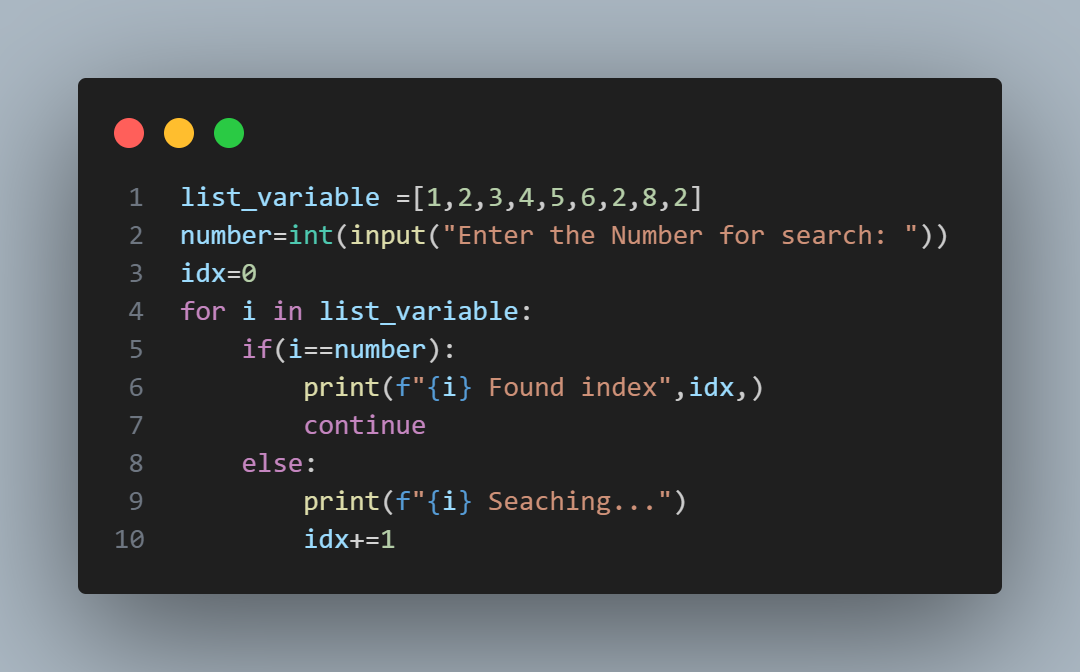
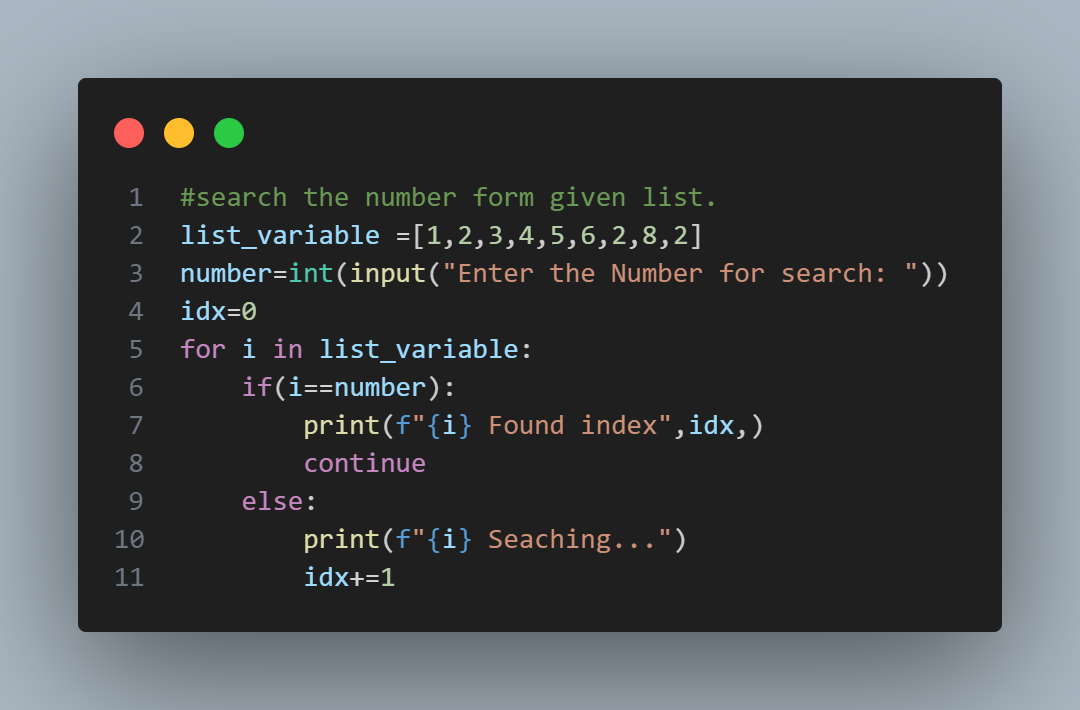
update

diff --git a/25-for-loop-practise1.py b/25-for-loop-practise1.py
@@ -5,7 +5,13 @@ for i in range(18, -1, -1):#reverse string
 
 
 #pattern print
-for i in range (6,1,-1):
+# *****         
+# **** 
+# *** 
+# **
+# *
+ 
+for i in range (6,0,-1):
     for j in range (i):
         print("*",end='')
     print(" ")

diff --git a/26-for-loop-practise2.py b/26-for-loop-practise2.py
@@ -1,3 +1,4 @@
+#search the number form given list.
 list_variable =[1,2,3,4,5,6,2,8,2]
 number=int(input("Enter the Number for search: "))
 idx=0
